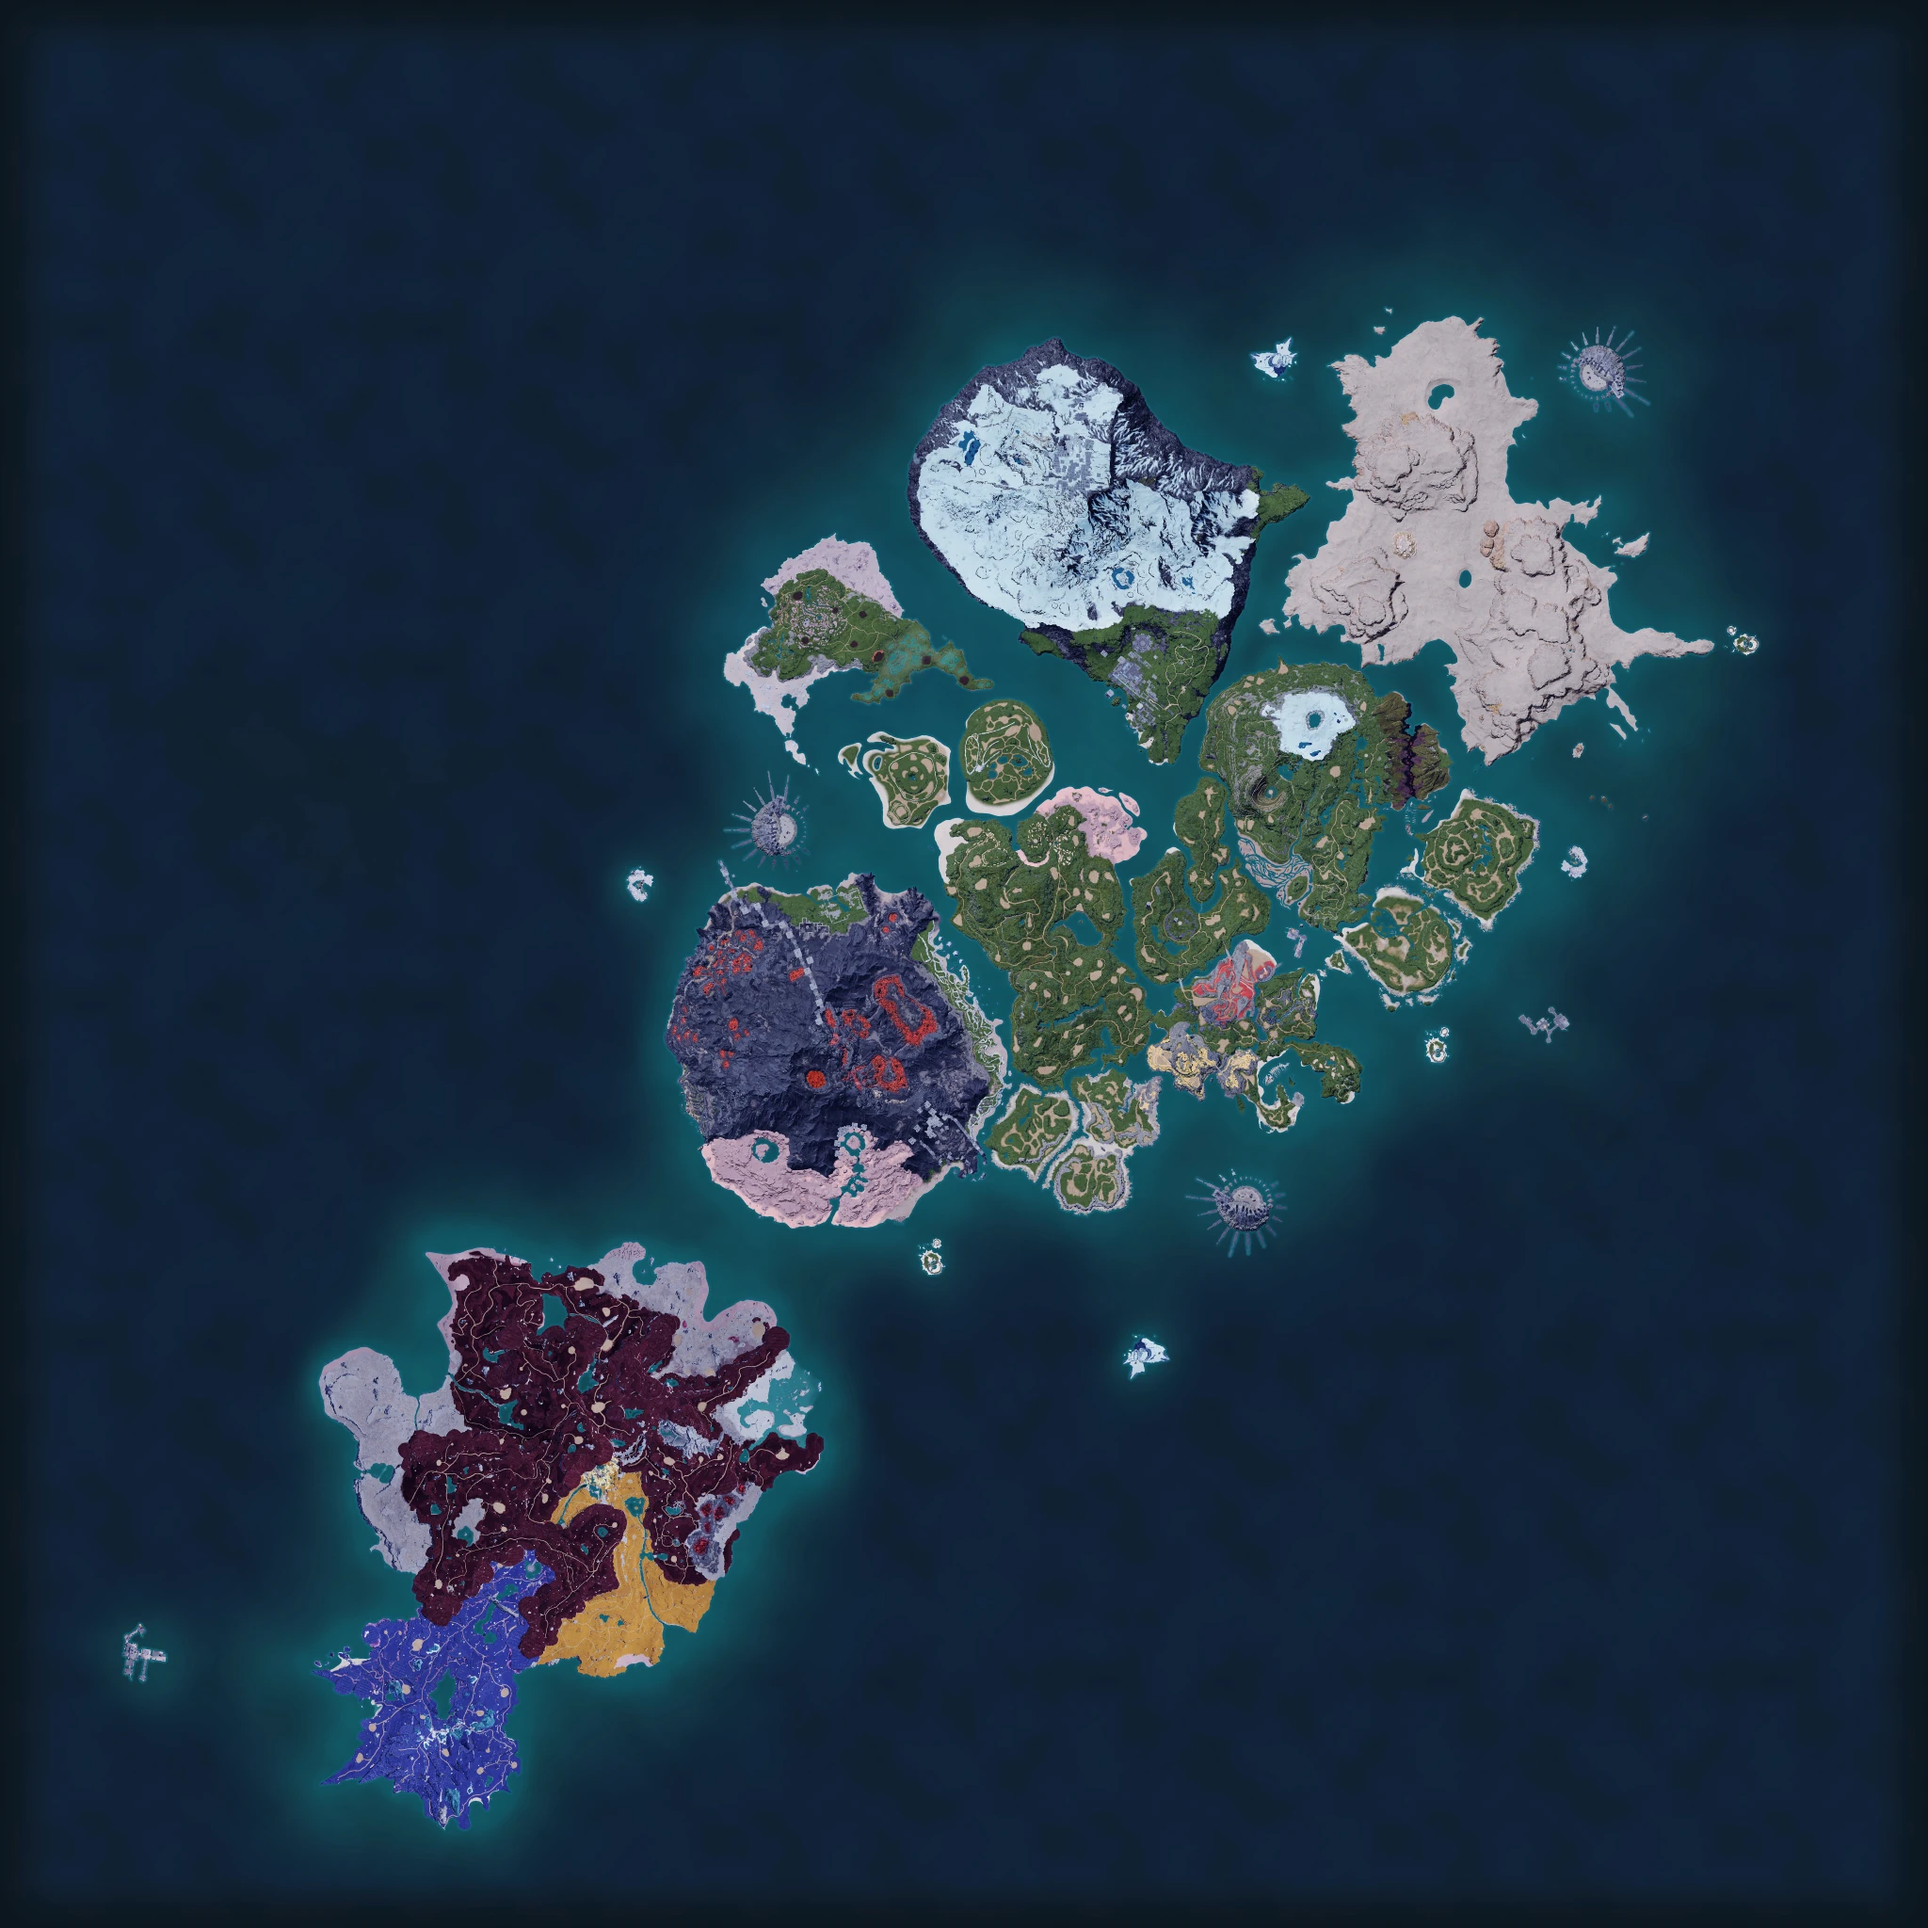
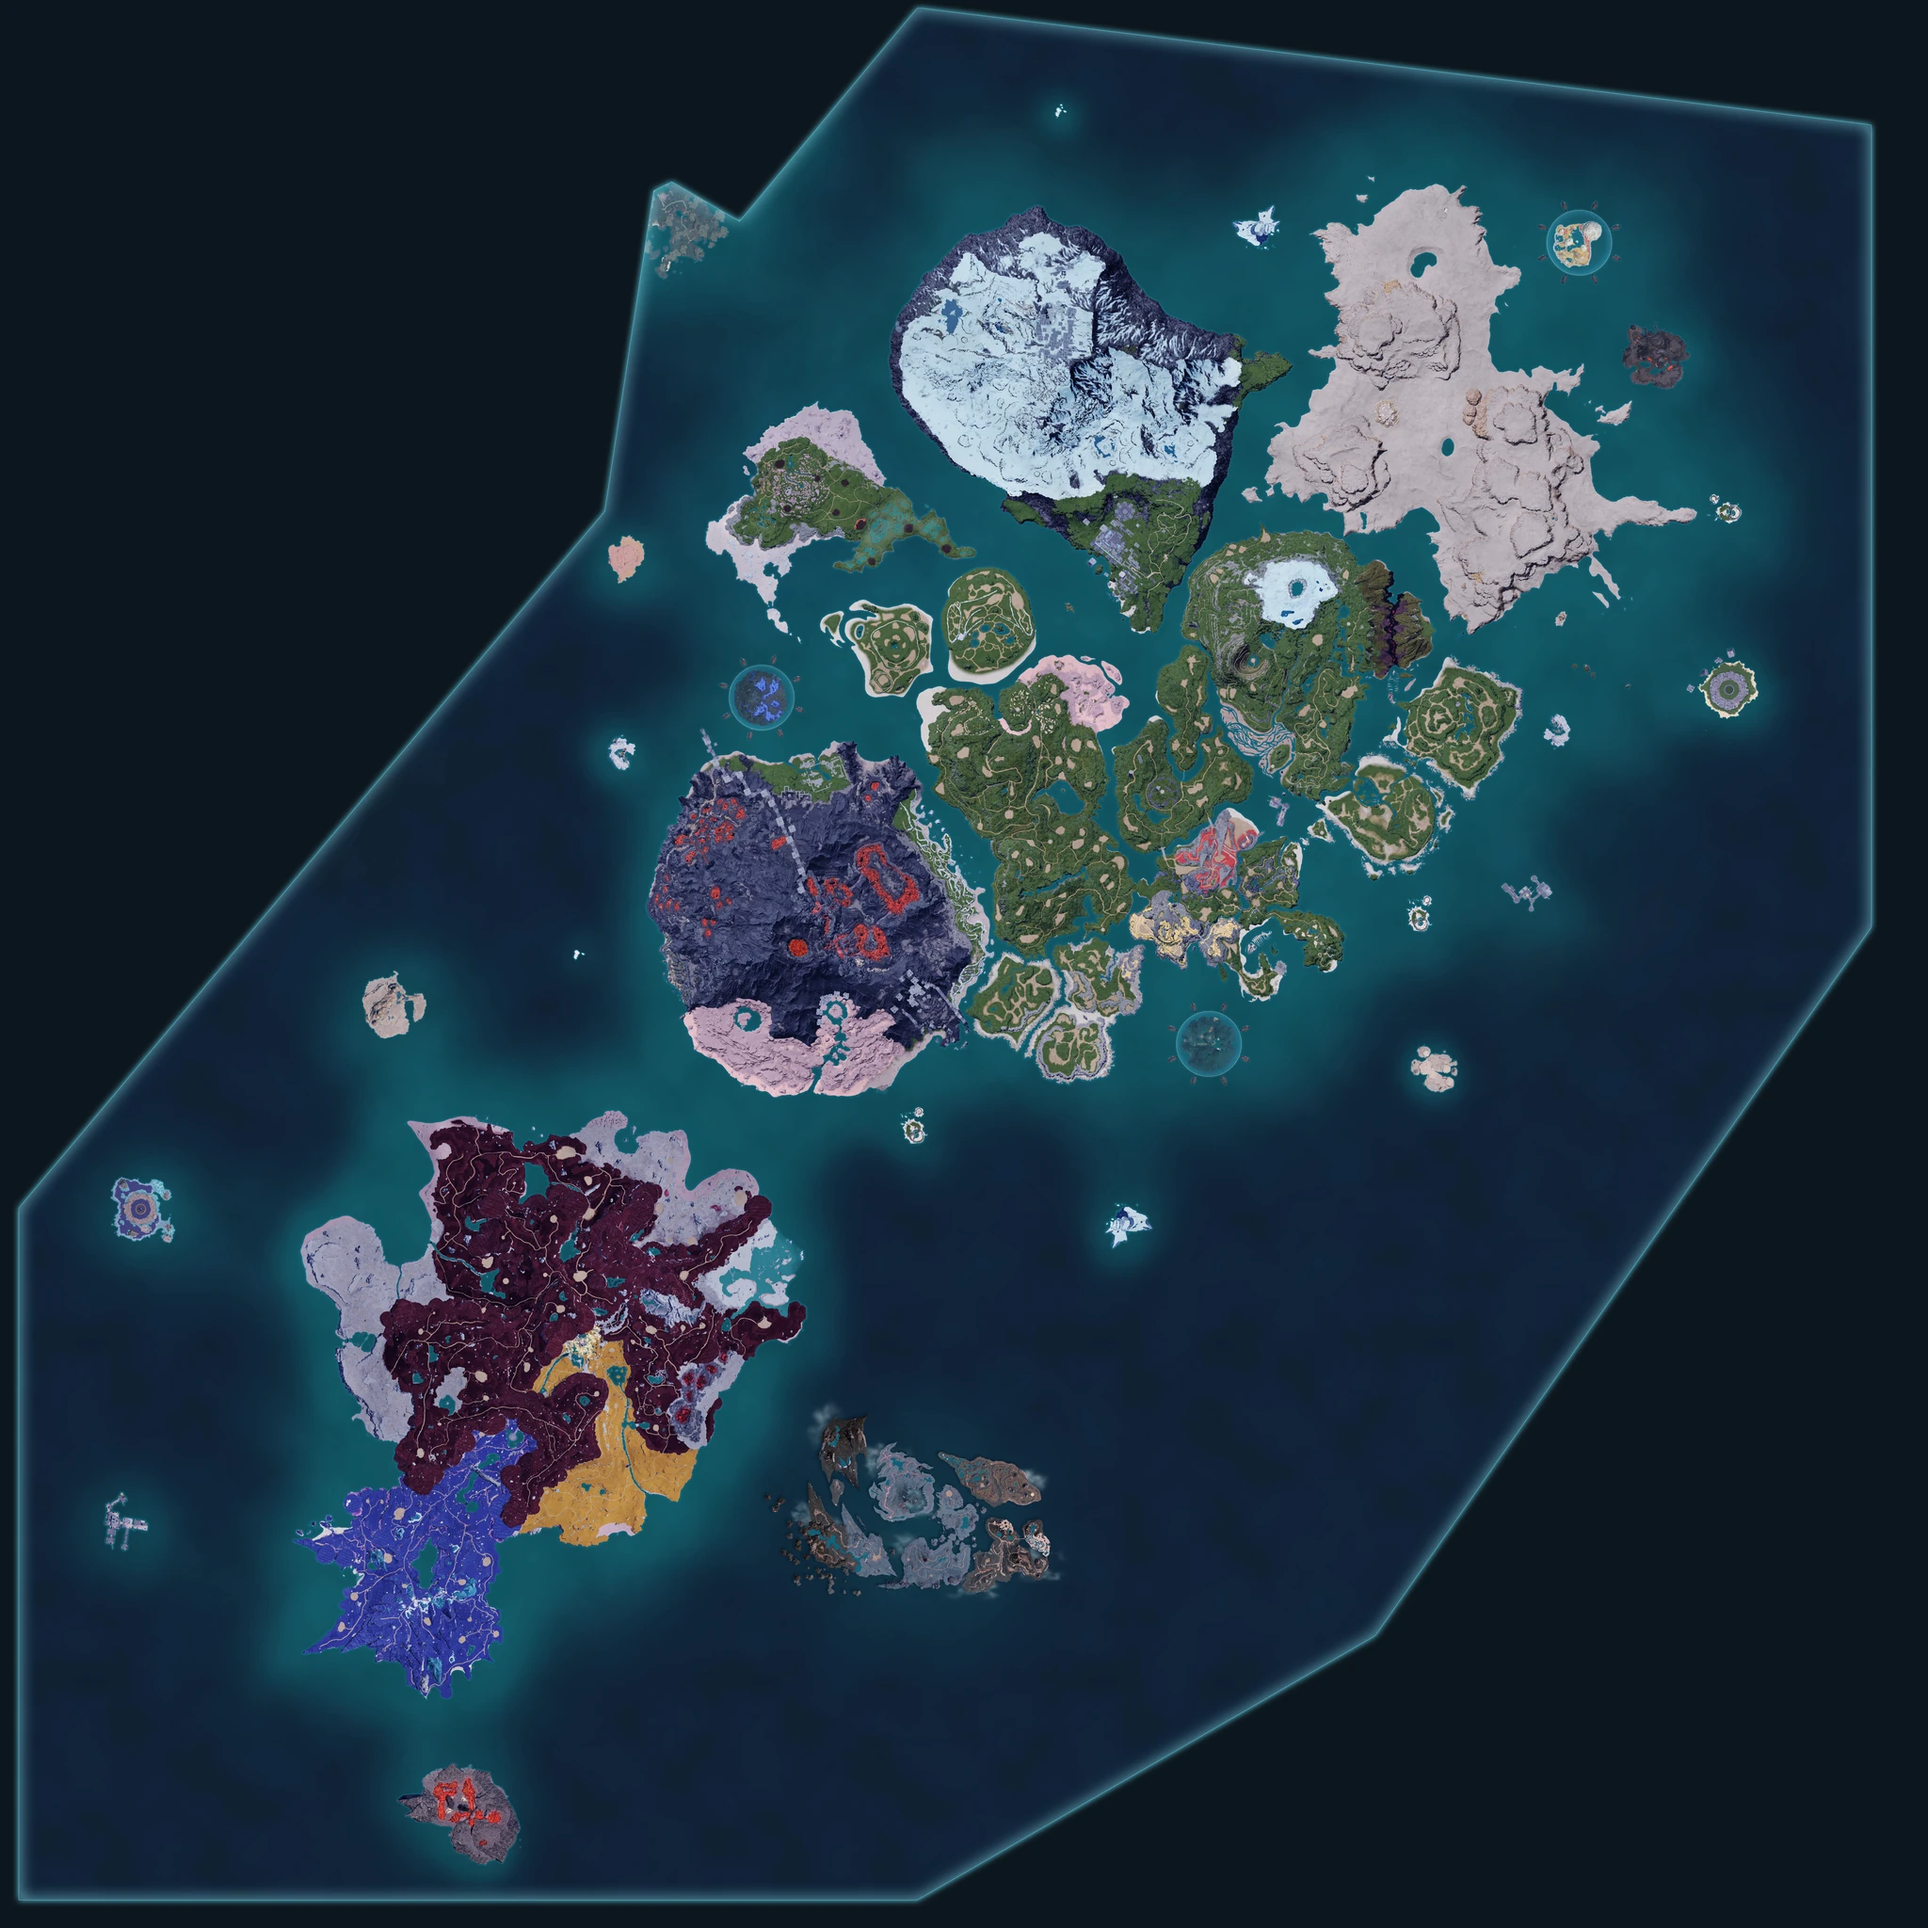
Slice A: replace Palpagos map asset with first-party T_WorldMap derivative
Replace Wiki-derived Palpagos map with optimized WebP derivatives generated
from the owner's extracted first-party T_WorldMap 8192x8192 PNG (Palworld
Xbox build 1.10.1283.0).

Asset changes:
- world-map-2048.webp: 381,772 -> 412,816 bytes (first-party source)
- world-map-4096.webp: 1,346,542 -> 1,410,000 bytes (first-party source)

Documentation updates:
- source.json: first-party extraction provenance with new checksums
- ASSET-NOTICE.md: precise T_WorldMap extraction attribution
- WORLD-MAP.md: coordinate source clarification and mismatch caveat
- projection.ts: comment clarifies bounds are live-validated, not authoritative

Existing telemetry projection/bounds unchanged — live-validated against REST
API player data. DT_WorldMapUIData bounds are documented but not yet proven
to share the same reference frame as REST coordinates.

diff --git a/apps/frontend/lib/world-map/projection.ts b/apps/frontend/lib/world-map/projection.ts
@@ -19,12 +19,13 @@ export interface MapProjectionConfiguration {
 }
 
 /**
- * Prototype Palpagos bounds reported from DT_WorldMapUIData.
- * Source: https://palworld.wiki.gg/wiki/MapTest
+ * Palpagos bounds derived from community calibration and validated against
+ * live REST telemetry. These are not the authoritative DT_WorldMapUIData
+ * terrain bounds.
  *
- * The community-documented conversion swaps the raw world axes. A 90-degree
- * clockwise rotation produces map X from world Y and CSS map Y from inverted
- * world X without scattering axis compensation through UI code.
+ * The conversion swaps the raw world axes. A 90-degree clockwise rotation
+ * produces map X from world Y and CSS map Y from inverted world X without
+ * scattering axis compensation through UI code.
  */
 export const palpagosProjection: MapProjectionConfiguration = {
   worldMinX: -999_940,

diff --git a/apps/frontend/test/world-map.test.ts b/apps/frontend/test/world-map.test.ts
@@ -383,7 +383,11 @@ test("bundles attributed responsive Palpagos derivatives with verified metadata"
 
   assert.equal(worldMapAssetPath, "/world-maps/palpagos/world-map-2048.webp");
   assert.equal(worldMapAssetSrcSet.includes("https://"), false);
-  assert.equal(metadata.upstreamSource.filePage.startsWith("https://"), true);
+  assert.ok(
+    metadata.upstreamSource.filePage.startsWith("https://") ||
+      metadata.upstreamSource.filePage.startsWith("DT_WorldMapUIData"),
+    "upstream source must be a URL or first-party extraction record",
+  );
   assert.deepEqual(metadata.upstreamSource.dimensions, {
     width: 8192,
     height: 8192,

diff --git a/docs/WORLD-MAP.md b/docs/WORLD-MAP.md
@@ -24,12 +24,10 @@ the bundled image layer.
 ## Asset and licensing decision
 
 The repository bundles 2048×2048 and 4096×4096 WebP derivatives of the
-8192×8192 Palpagos world map published by The Palworld Wiki. The
-[source file page](https://palworld.wiki.gg/wiki/File:World_Map.webp)
-identifies the image as originating from Palworld or a Pocketpair-owned website,
-states that Pocketpair holds the copyright, and describes the wiki's
-illustrative use as fair use under United States copyright law. The image was
-retrieved on July 28, 2026.
+8192×8192 Palpagos world map texture (T_WorldMap) extracted from the owner's
+installed Palworld Xbox build (version 1.10.1283.0). The extraction also
+yielded DT_WorldMapUIData, which supplies the game's authoritative terrain/map
+bounds.
 
 The image remains copyright Pocketpair, Inc. It is not covered by PalCenter's
 MIT license. PalCenter is unofficial, unaffiliated, free, open source, and
@@ -49,13 +47,13 @@ direct full-frame scale with no crop, rotation, padding, or boundary change.
 
 | Bundled derivative    | Compressed size | Approximate RGBA decode |
 | --------------------- | --------------: | ----------------------: |
-| `world-map-2048.webp` |   381,772 bytes |                  16 MiB |
-| `world-map-4096.webp` | 1,346,542 bytes |                  64 MiB |
+| `world-map-2048.webp` |   412,816 bytes |                  16 MiB |
+| `world-map-4096.webp` | 1,410,000 bytes |                  64 MiB |
 
-The original file was 4,876,386 bytes and could require approximately 256 MiB
-when decoded as RGBA. The default derivative reduces transfer size by 92.2% and
+The original file was 27,458,010 bytes and could require approximately 256 MiB
+when decoded as RGBA. The default derivative reduces transfer size by 98.5% and
 decoded pixel memory by approximately 93.8%; the larger derivative reduces
-transfer size by 72.4% and decoded pixel memory by approximately 75%.
+transfer size by 94.8% and decoded pixel memory by approximately 75%.
 
 The derivatives are bundled in the application and are never hotlinked at
 runtime. The PalCenter-owned CSS calibration grid remains available to
@@ -70,13 +68,21 @@ The map projection uses these sources:
   for the documented `location_x` and `location_y` fields;
 - the [official Unreal Engine coordinate-system documentation](https://dev.epicgames.com/documentation/en-us/unreal-engine/coordinate-system-and-spaces-in-unreal-engine)
   for Unreal's left-handed, Z-up world-coordinate convention;
-- the community-documented
-  [`DT_WorldMapUIData` bounds](https://palworld.wiki.gg/wiki/MapTest) for the
-  current Palpagos projection constants.
+- the community-derived projection constants, validated against live REST
+  telemetry.
 
-The last source is community research rather than an official Palworld API
-contract. The constants and orientation must therefore be treated as
-calibration assumptions, not guaranteed game metadata.
+DT_WorldMapUIData was extracted directly from an installed Palworld build and
+supplies the game's authoritative terrain/map bounds. The current PalCenter
+projection retains its existing live-validated telemetry bounds because REST
+telemetry coordinates have not yet been proven to use the same reference frame
+as DT_WorldMapUIData. The existing projection constants are not authoritative
+game terrain bounds.
+
+The REST API coordinate space and DT_WorldMapUIData bounds differ by a
+measurable offset. Establishing the complete relationship requires further
+validation with multiple geographically separated calibration points. The
+constants and orientation must therefore be treated as calibration assumptions,
+not guaranteed game metadata.
 
 ## Standard and exact locations
 

diff --git a/apps/frontend/public/world-maps/palpagos/ASSET-NOTICE.md b/apps/frontend/public/world-maps/palpagos/ASSET-NOTICE.md
@@ -1,7 +1,8 @@
 # Palpagos world map asset notice
 
-`world-map-2048.webp` and `world-map-4096.webp` are resized derivatives of a
-Pocketpair-owned Palpagos map. The source image and both derivatives remain
+`world-map-2048.webp` and `world-map-4096.webp` are resized derivatives of the
+T_WorldMap texture extracted from the owner's installed Palworld build
+(Xbox, version 1.10.1283.0). The source texture and both derivatives remain
 copyright Pocketpair, Inc. They are not covered by PalCenter's MIT license.
 
 PalCenter is an unofficial community project and is not affiliated with,
@@ -10,11 +11,11 @@ PalCenter, a free and noncommercial dedicated-server administration tool, only
 as a functional reference layer for visualizing player-location data exposed
 by Palworld's official REST API.
 
-The source file page identifies the image as originating from Palworld or a
-Pocketpair-owned website and states that Pocketpair holds the copyright. The
-file page describes its illustrative use as fair use under United States
-copyright law. PalCenter preserves that copyright position and does not claim
-that the image is freely licensed.
+DT_WorldMapUIData supplied the game's terrain/map bounds. PalCenter currently
+retains its existing live-validated telemetry projection because REST
+telemetry coordinates have not yet been proven to use the same reference frame
+as DT_WorldMapUIData. The existing projection constants are not authoritative
+game terrain bounds.
 
 Source, retrieval, derivative conversion settings, and checksums are recorded
 in `source.json`. The upstream 8192×8192 binary is not shipped in PalCenter or
